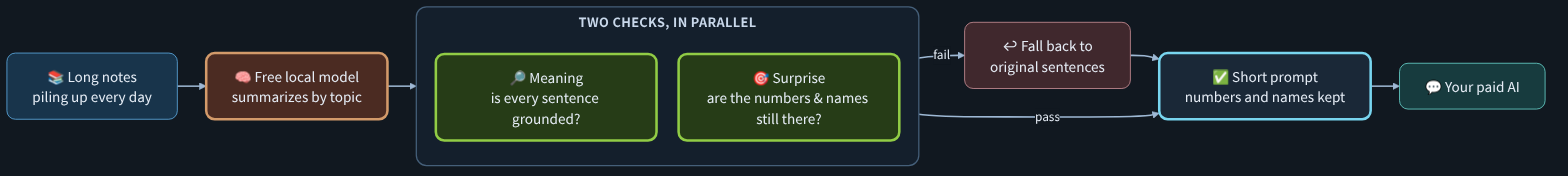
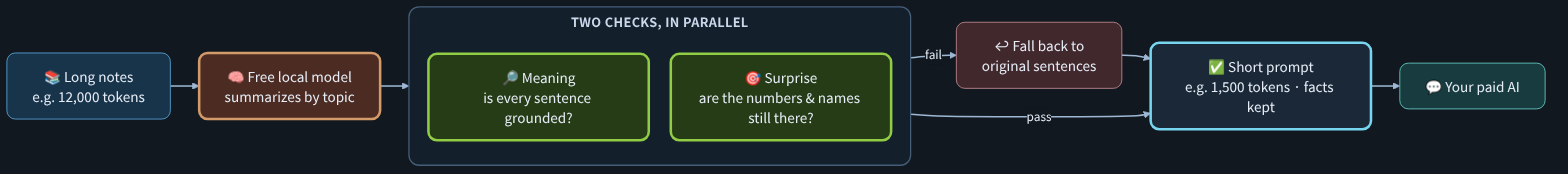
teaser: show token numbers as a labeled illustration
Claude-Session: https://claude.ai/code/session_01UJTvafdhpvh1JHj7mdFTTg

diff --git a/README.md b/README.md
@@ -6,6 +6,7 @@ Free. Local. Ten minutes to try.
 [한국어](README.ko.md)
 
 ![prompt-token-saver](assets/hero.png)
+<sub>Numbers in the diagram are an illustration. Measured results ship with the first release.</sub>
 
 > 🚧 **Building in public.** First release coming soon. Star or watch to get it.
 

diff --git a/README.ko.md b/README.ko.md
@@ -6,6 +6,7 @@
 [English](README.md)
 
 ![prompt-token-saver](assets/hero.png)
+<sub>그림의 숫자는 예시입니다. 실측 결과는 첫 릴리스와 함께 공개합니다.</sub>
 
 > 🚧 **공개 개발 중.** 첫 릴리스가 곧 나옵니다. Star나 Watch로 받아 보세요.
 
